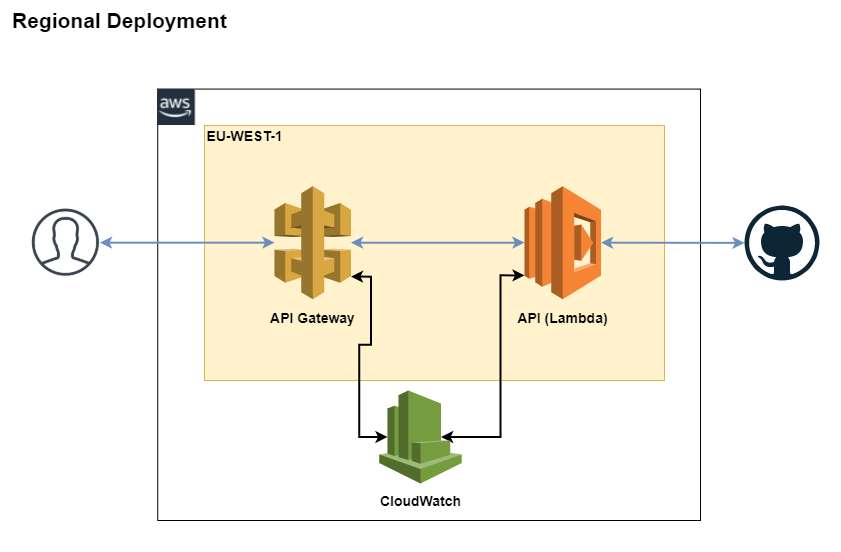
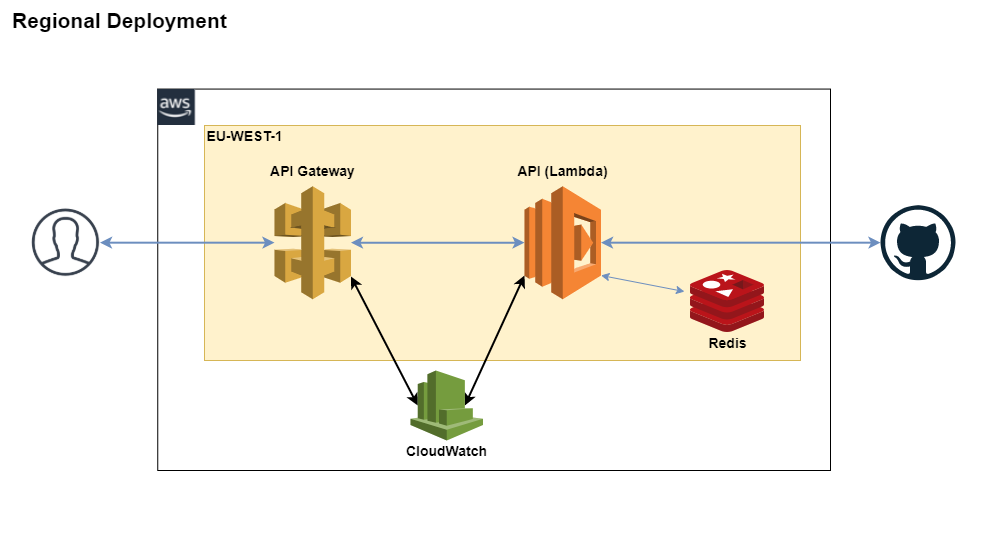
Cache try

diff --git a/pkg/cache/cache.go b/pkg/cache/cache.go
@@ -3,54 +3,86 @@ package cache
 import (
 	"context"
 	"encoding/json"
+	"errors"
 	"time"
 
 	"github.com/go-redis/redis/v8"
+	"github.com/go-redsync/redsync/v4"
+	"github.com/go-redsync/redsync/v4/redis/goredis/v8"
+
 	"github.com/google/go-github/v32/github"
+	"github.com/sirupsen/logrus"
 )
 
 //Cache is the interface which cache implementations must implement
 type Cache interface {
-	GetClient() interface{}
-	GetKey(ctx context.Context, key string) (*[]github.User, error)
-	SetKey(ctx context.Context, key string, value *[]github.User, ttl time.Duration) error
+	GetKey(ctx context.Context, key string) ([]*github.User, error)
+	SetKey(ctx context.Context, key string, value []*github.User, ttl time.Duration) error
+	SetLock(ctx context.Context, key string) error
+	ReleaseLock(key string) error
 }
 
 //RedisCache is the Implementation of Cache interface for Redis
 type RedisCache struct {
-	addr     string
-	database int
-	password string
-	client   *redis.Client
+	client  *redis.Client
+	redsync *redsync.Redsync
 }
 
 //NewRedisCache constructs the RedisCache object
-func NewRedisCache(addr string, database int, password string) *RedisCache {
-	return &RedisCache{
-		database: database,
-		client: redis.NewClient(&redis.Options{
-			Addr:     addr,
-			Password: password,
-			DB:       database,
-		}),
+func NewRedisCache(addr string, password string) RedisCache {
+	client := redis.NewClient(&redis.Options{
+		Addr:     addr,
+		Password: password,
+	})
+	rs := redsync.New(goredis.NewPool(client))
+
+	return RedisCache{
+		client:  client,
+		redsync: rs,
 	}
 }
 
 //GetKey gets a key from a redis cache
-//Returns a slice of User
+//Returns a slice of pointers to User
 func (r RedisCache) GetKey(ctx context.Context, key string) ([]*github.User, error) {
 	users, err := r.client.Get(ctx, key).Result()
 	if err != nil {
+		logrus.Error(err)
 		return nil, err
 	} else {
-		var cUsers []*github.User
-		err = json.Unmarshal([]byte(users), &cUsers)
-		if err != nil {
-			return nil, err
+		var cUsers = make([]*github.User, 0)
+		if users != "null" {
+			err = json.Unmarshal([]byte(users), &cUsers)
 		}
-		return cUsers, nil
+		return cUsers, err
 	}
+}
 
+//SetLock sets a distributed lock to the cache
+func (r RedisCache) SetLock(ctx context.Context, key string) error {
+	select {
+	case <-ctx.Done():
+		return errors.New("setRedisLock Context canceled")
+	default:
+		mutex := r.redsync.NewMutex(key)
+		if err := mutex.Lock(); err != nil {
+			logrus.Debug("Failed to acquire Redis Mutex Lock")
+			logrus.Error(err)
+			return err
+		} else {
+			return nil
+		}
+	}
+}
+
+//ReleaseLock release the cache distributed Lock
+func (r RedisCache) ReleaseLock(key string) error {
+	mutex := r.redsync.NewMutex(key)
+	if ok, err := mutex.Unlock(); !ok || err != nil {
+		return err
+	} else {
+		return nil
+	}
 }
 
 //SetKey sets a key-value in Redis cache

diff --git a/internal/app.go b/internal/app.go
@@ -4,11 +4,12 @@ import (
 	"encoding/json"
 	"net/http"
 	"strconv"
-	"sync"
 	"time"
 
+	"github.com/go-redis/redis/v8"
 	"github.com/google/go-github/v32/github"
 	"github.com/gorilla/mux"
+	"github.com/jpiriz/ghcontrib/pkg/cache"
 	"github.com/jpiriz/ghcontrib/pkg/githubclient"
 	"github.com/sirupsen/logrus"
 )
@@ -16,13 +17,15 @@ import (
 type App struct {
 	listenAddr string
 	ghClient   *githubclient.Client
-	rqMutex    *sync.Mutex
+	cache      cache.Cache
 }
 
-func NewApp(listenAddr string, ghClient *githubclient.Client) App {
+//NewApp returns a App
+func NewApp(listenAddr string, ghClient *githubclient.Client, cache cache.Cache) App {
 	return App{
 		listenAddr: listenAddr,
 		ghClient:   ghClient,
+		cache:      cache,
 	}
 }
 
@@ -61,14 +64,52 @@ func (app *App) topContributorsHandler(w http.ResponseWriter, r *http.Request) {
 			items = 100
 		}
 
-		users := make([]*github.User, 0)
-		if users, err = app.ghClient.GetUsersByLocation(ctx, location, items); err != nil {
-			if serr, ok := err.(*github.RateLimitError); ok {
-				http.Error(w, serr.Error(), http.StatusTooManyRequests)
-			} else {
-				http.Error(w, err.Error(), http.StatusInternalServerError)
+		var getFromAPI = false
+		var cacheError = false
+		var users = make([]*github.User, 0)
+
+		if users, err = app.cache.GetKey(ctx, location); err == nil {
+			logrus.WithField("key", location).Info("Cache Hit")
+			json.NewEncoder(w).Encode(users)
+		} else if err == redis.Nil {
+
+			logrus.WithField("key", location).Info("Cache Miss")
+			if err = app.cache.SetLock(ctx, "mutex-"+location); err != nil {
+				//Lock Set
+				defer func() {
+					logrus.Debug("Releasing Cache Lock")
+					app.cache.ReleaseLock("mutex-" + location)
+				}()
 			}
-		} else {
+			// We got the Lock, but maybe another thread has set the cache before
+			if users, err = app.cache.GetKey(ctx, location); err != nil {
+				getFromAPI = true
+				if err != redis.Nil {
+					logrus.Debug("CacheError; Disable the cache for this request")
+					logrus.Error(err)
+					cacheError = true
+				}
+			} else {
+				logrus.Debug("Data got from the cache after lock")
+			}
+
+			if getFromAPI {
+				if users, err = app.ghClient.GetUsersByLocation(ctx, location, 100); err != nil {
+					if serr, ok := err.(*github.RateLimitError); ok {
+						http.Error(w, serr.Error(), http.StatusTooManyRequests)
+					} else {
+						http.Error(w, err.Error(), http.StatusInternalServerError)
+					}
+				} else {
+					if cacheError == false {
+						logrus.Debug("Setting cache value")
+						if err := app.cache.SetKey(ctx, location, users, 300*time.Second); err != nil {
+							logrus.Error(err)
+						}
+					}
+				}
+			}
+			// Encode users
 			json.NewEncoder(w).Encode(users)
 		}
 	}

diff --git a/cmd/root.go b/cmd/root.go
@@ -21,12 +21,16 @@ import (
 	"os"
 
 	"github.com/jpiriz/ghcontrib/internal"
+	"github.com/jpiriz/ghcontrib/pkg/cache"
 	"github.com/jpiriz/ghcontrib/pkg/githubclient"
 	"github.com/sirupsen/logrus"
 	"github.com/spf13/cobra"
 )
 
 var githubToken string
+var cacheAddr string
+var cacheDb int
+var cachePassword string
 var listenAddr string
 var verbose bool
 
@@ -48,10 +52,11 @@ var rootCmd = &cobra.Command{
 		return nil
 	},
 	Run: func(cmd *cobra.Command, args []string) {
-		logrus.Info("GH-Contrib API Started")
+		logrus.Info("Starting GH-Contrib API")
 		var ctx = context.Background()
+		cache := cache.NewRedisCache(cacheAddr, cachePassword)
 		ghClient := githubclient.NewClient(ctx, githubToken)
-		app := internal.NewApp(listenAddr, ghClient)
+		app := internal.NewApp(listenAddr, ghClient, cache)
 		//app := internal.NewApp(listenAddr, githubToken)
 		app.StartServer()
 	},
@@ -68,6 +73,8 @@ func Execute() {
 
 func init() {
 	rootCmd.PersistentFlags().StringVar(&githubToken, "github_token", "", "Token for Github Api")
-	rootCmd.PersistentFlags().StringVar(&listenAddr, "listen_addr", ":10000", "Token for Github Api")
+	rootCmd.PersistentFlags().StringVar(&listenAddr, "listen_addr", ":10000", "Address where the service should listen")
+	rootCmd.PersistentFlags().StringVar(&cacheAddr, "cache_addr", "localhost:6379", "Cache Host:Port to connect to")
+	rootCmd.PersistentFlags().StringVar(&cachePassword, "cache_password", "", "Cache password")
 	rootCmd.PersistentFlags().BoolVar(&verbose, "verbose", false, "show debug information")
 }

diff --git a/pkg/githubclient/github.go b/pkg/githubclient/github.go
@@ -23,9 +23,7 @@ type Client struct {
 
 //NewClient returns a github client
 func NewClient(ctx context.Context, token string) *Client {
-
 	var clientRest *github.Client
-
 	if token != "" {
 		ts := oauth2.StaticTokenSource(
 			&oauth2.Token{AccessToken: token},
@@ -77,8 +75,7 @@ func (gh *Client) GetUsersByLocation(ctx context.Context, location string, items
 		gh.setRateLimit(nil)
 	}
 
-	var users []*github.User
-
+	var users = make([]*github.User, 0)
 	opts := &github.SearchOptions{ListOptions: github.ListOptions{Page: 1, PerPage: items}, Sort: "repos"}
 	q := fmt.Sprintf("location:%s type:user", location)
 
